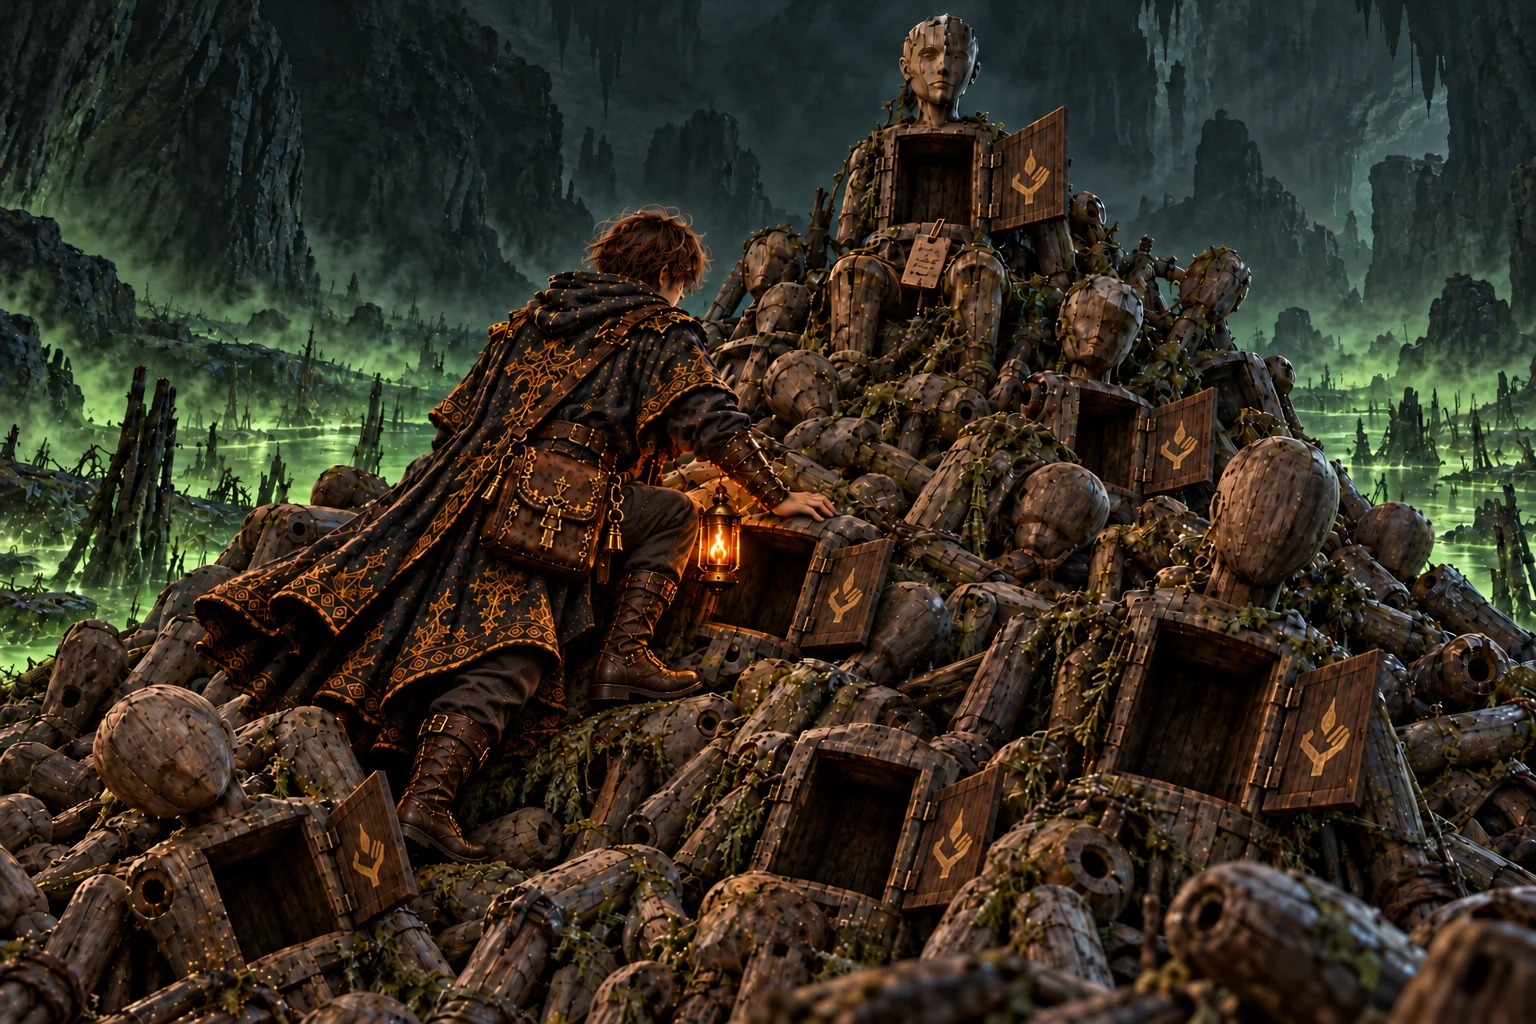
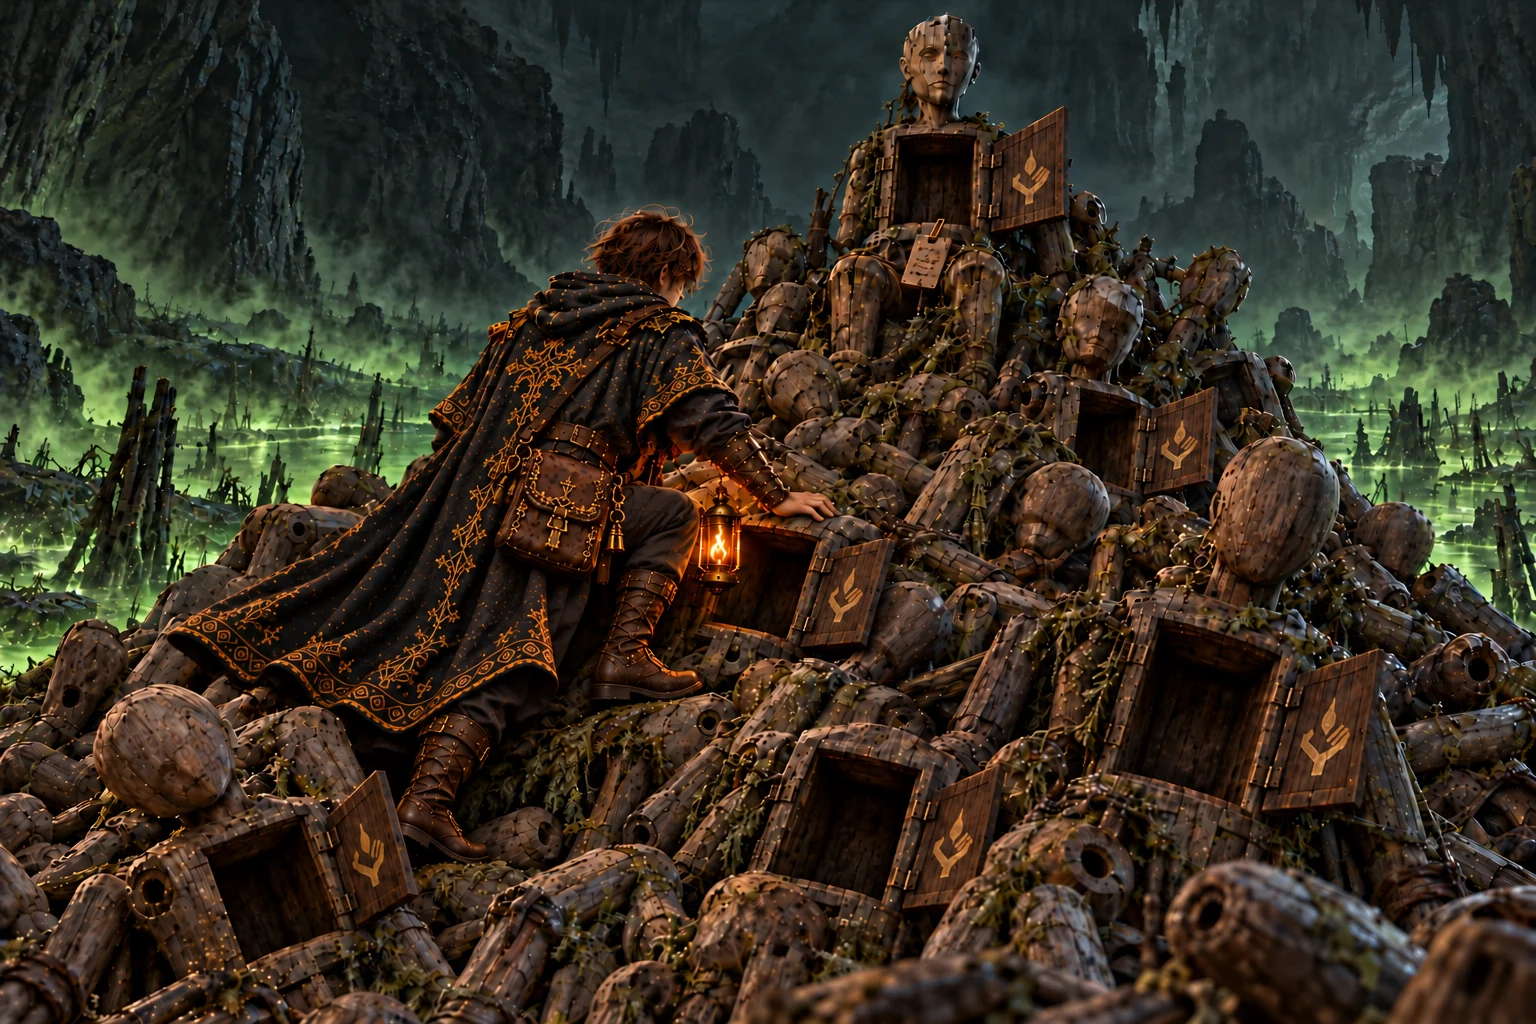
弟子の足元のマントを一続きの自然な裾に修正

diff --git a/docs/art/codex-story-art-brief.md b/docs/art/codex-story-art-brief.md
@@ -847,6 +847,7 @@ The same cold throne room. The very old king, lap blanket over his knees, stares
 - 要点: 谷の奥に作りかけの器の山 (腕の無いもの・顔の無いもの・胸の扉が開いたままのもの)。どれも三百年より古い。胸の扉の内側に灯を掌に載せた手の印。山の頂に一体だけ、きれいに座らされた器 (顔は彫りかけ、胸は空)、膝に師の札。
 - 2026-10-17 ユーザー指定の修正: 捨てられた人業の胸の扉は、すべて一枚の片開き。構図・人物・光を保ち、両開きの扉を直した (済)。
 - 同日の追加修正: 片開きは保ち、弟子の脚・足首・ブーツを自然につながる形に直し、器の山に足を置いて登る姿勢に整えた (済)。
+- 同日の追加修正: 足の周りのマントを、背中から続く一枚の布として自然に垂れる裾とひだに直した。脚を囲む筒状の縁や分かれた布片に見せない (済)。
 ```text
 A deep valley by the poison swamp, piled high with ancient unfinished wooden dolls: some armless, some faceless with blank heads, many with small chest doors hanging open, and inside each open door the same carved crest — a palm-up hand holding a flame. Every chest hatch has exactly one full-width wooden door panel hinged on one side only, never two opposing leaves. Everything is grey with age and moss. At the very top of the pile, one doll sits neatly upright, its face only half-carved, its chest empty, a wooden tag resting on its knees. The apprentice climbs the heap toward it. Green miasma, dead reeds.
 ```

diff --git a/art/story-review/review/chapter7.md b/art/story-review/review/chapter7.md
@@ -104,6 +104,7 @@
 - 要点: 谷の奥に作りかけの器の山 (腕の無いもの・顔の無いもの・胸の扉が開いたままのもの)。どれも三百年より古い。胸の扉の内側に灯を掌に載せた手の印。山の頂に一体だけ、きれいに座らされた器 (顔は彫りかけ、胸は空)、膝に師の札。
 - 2026-10-17 ユーザー指定の修正: 捨てられた人業の胸の扉は、すべて一枚の片開き。構図・人物・光を保ち、両開きの扉を直した (済)。
 - 同日の追加修正: 片開きは保ち、弟子の脚・足首・ブーツを自然につながる形に直し、器の山に足を置いて登る姿勢に整えた (済)。
+- 同日の追加修正: 足の周りのマントを、背中から続く一枚の布として自然に垂れる裾とひだに直した。脚を囲む筒状の縁や分かれた布片に見せない (済)。
 
 <a name="report_w27"></a>
 
